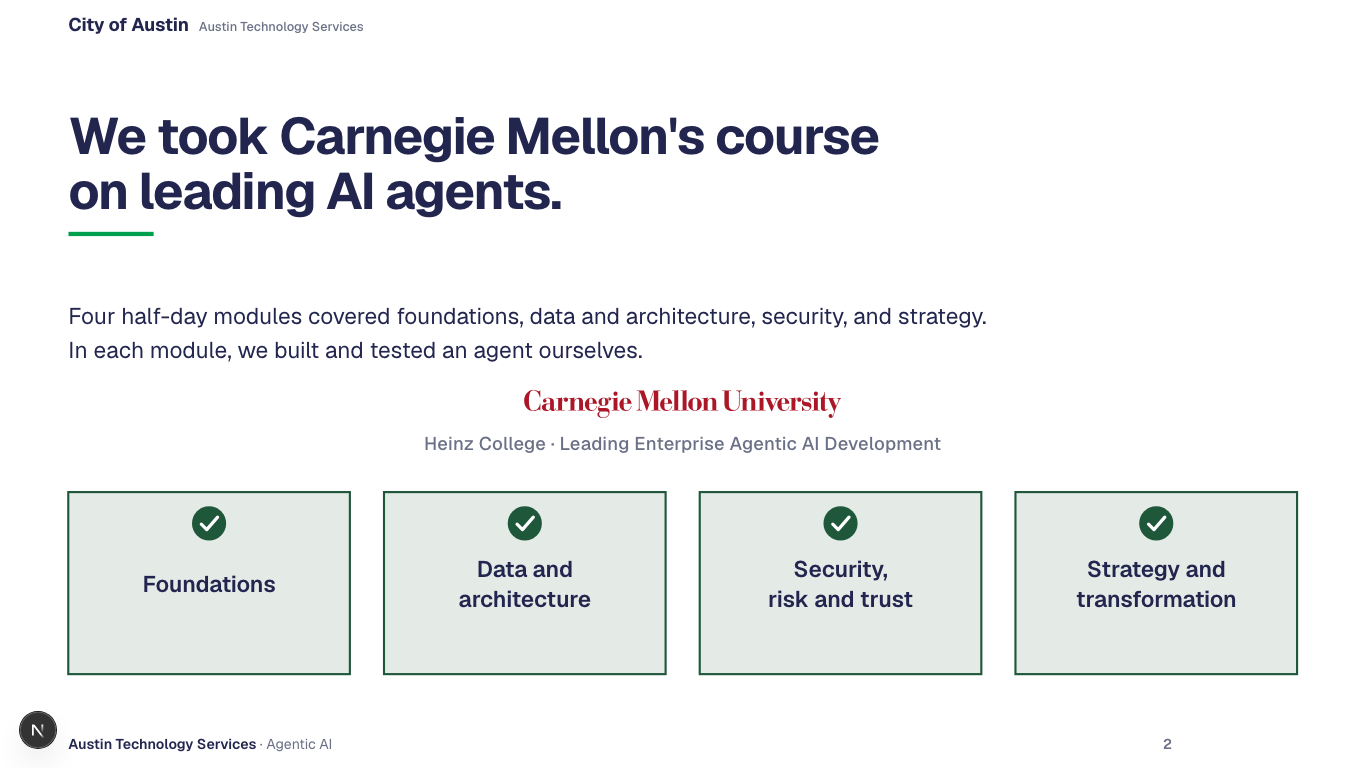
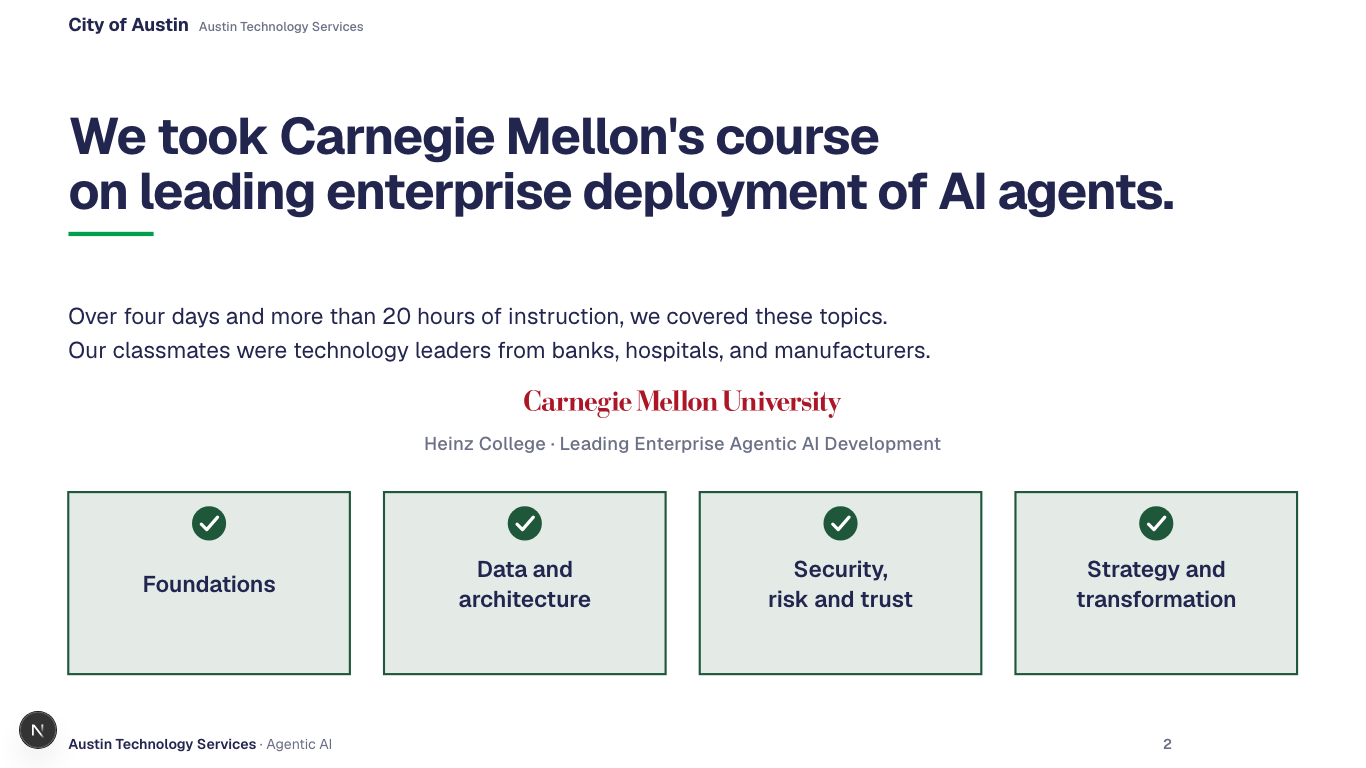
docs: slide 2 names the course rightly and drops the agent we did not build
The title now says leading enterprise deployment of AI agents. The
sentences give four days and more than 20 hours of instruction and who
the classmates were, and no longer claim we built and tested an agent.

Changed region(s): [[0.0307, 0.4062, 0.7379, 0.4688], [0.246, 0.2188, 0.8609, 0.2812]]

diff --git a/src/talks/ats/script/part-1-what-we-brought-back.ts b/src/talks/ats/script/part-1-what-we-brought-back.ts
@@ -25,12 +25,12 @@ export const WHAT_WE_BROUGHT_BACK: Picture[] = [
     part: 1,
     world: "brought",
     name: "The course",
-    show: "We took Carnegie Mellon's course on leading AI agents.",
-    say: "Carnegie Mellon's Heinz College runs a certificate program called Leading Enterprise Agentic AI Development. It is designed for executives who decide what AI agents may do inside their organizations. An agent can use tools to carry out a task without a person directing every step. Our classmates were chief data officers and technology leaders from banks, hospitals, and manufacturers. Four half-day modules covered foundations, the data and system architecture agents need, security and trust, and strategy and transformation. In each module, we built and tested an agent ourselves. We specified its task, gave it tools, set its limits, and watched it work. We also tested how it responded to attacks. That practical work helped us understand both what agents can do and what can go wrong.",
+    show: "We took Carnegie Mellon's course on leading enterprise deployment of AI agents.",
+    say: "Carnegie Mellon's Heinz College runs a certificate program called Leading Enterprise Agentic AI Development. It is designed for executives who decide what AI agents may do inside their organizations. An agent can use tools to carry out a task without a person directing every step. Our classmates were chief data officers and technology leaders from banks, hospitals, and manufacturers. Over four days and more than 20 hours of instruction, the course covered four topics: foundations, the data and system architecture agents need, security, risk and trust, and strategy and transformation.",
     see: ["The title settles, then both supporting sentences appear together. After a 0.6-second pause, the visual sequence begins. The Carnegie Mellon wordmark settles in its red, centered across the stage, with one small gray caption centered under it: \"Heinz College · Leading Enterprise Agentic AI Development\". Four boxes land in a row under the caption as gray dashed outlines, each with its name centered in it: \"Foundations\", \"Data and architecture\", \"Security, risk and trust\", \"Strategy and transformation\". Then, one at a time from left to right, about half a second apart, each box turns green, its outline solid, and a deep green check mark lands in it, above its name. The slide ends on the wordmark and its caption over the four green boxes, each with its check. Nothing moves after that."],
     story: [
-      "Four half-day modules covered foundations, data and architecture, security, and strategy.",
-      "In each module, we built and tested an agent ourselves.",
+      "Over four days and more than 20 hours of instruction, we covered these topics.",
+      "Our classmates were technology leaders from banks, hospitals, and manufacturers.",
     ],
     steps: [
       { id: "play", show: ["Heinz College · Leading Enterprise Agentic AI Development", "Foundations", "Data and architecture", "Security, risk and trust", "Strategy and transformation"] },

diff --git a/docs/ats-talk-script.md b/docs/ats-talk-script.md
@@ -89,13 +89,13 @@ Speaker: Chris
 <!-- beat: what the course was, who it was for and why it was worth the time, before any of its ideas are named -->
 Speaker: Chris
 
-**On screen:** We took Carnegie Mellon's course on leading AI agents.
-- Four half-day modules covered foundations, data and architecture, security, and strategy.
-- In each module, we built and tested an agent ourselves.
+**On screen:** We took Carnegie Mellon's course on leading enterprise deployment of AI agents.
+- Over four days and more than 20 hours of instruction, we covered these topics.
+- Our classmates were technology leaders from banks, hospitals, and manufacturers.
 
 **They see:** The title settles, then both supporting sentences appear together. After a 0.6-second pause, the visual sequence begins. The Carnegie Mellon wordmark settles in its red, centered across the stage, with one small gray caption centered under it: "Heinz College · Leading Enterprise Agentic AI Development". Four boxes land in a row under the caption as gray dashed outlines, each with its name centered in it: "Foundations", "Data and architecture", "Security, risk and trust", "Strategy and transformation". Then, one at a time from left to right, about half a second apart, each box turns green, its outline solid, and a deep green check mark lands in it, above its name. The slide ends on the wordmark and its caption over the four green boxes, each with its check. Nothing moves after that.
 
-**You say:** Carnegie Mellon's Heinz College runs a certificate program called Leading Enterprise Agentic AI Development. It is designed for executives who decide what AI agents may do inside their organizations. An agent can use tools to carry out a task without a person directing every step. Our classmates were chief data officers and technology leaders from banks, hospitals, and manufacturers. Four half-day modules covered foundations, the data and system architecture agents need, security and trust, and strategy and transformation. In each module, we built and tested an agent ourselves. We specified its task, gave it tools, set its limits, and watched it work. We also tested how it responded to attacks. That practical work helped us understand both what agents can do and what can go wrong.
+**You say:** Carnegie Mellon's Heinz College runs a certificate program called Leading Enterprise Agentic AI Development. It is designed for executives who decide what AI agents may do inside their organizations. An agent can use tools to carry out a task without a person directing every step. Our classmates were chief data officers and technology leaders from banks, hospitals, and manufacturers. Over four days and more than 20 hours of instruction, the course covered four topics: foundations, the data and system architecture agents need, security, risk and trust, and strategy and transformation.
 
 ### 2a. Four lessons
 <!-- beat: the setup; the four lessons named once, so the room can count them, expect them and recognize them when they return -->
